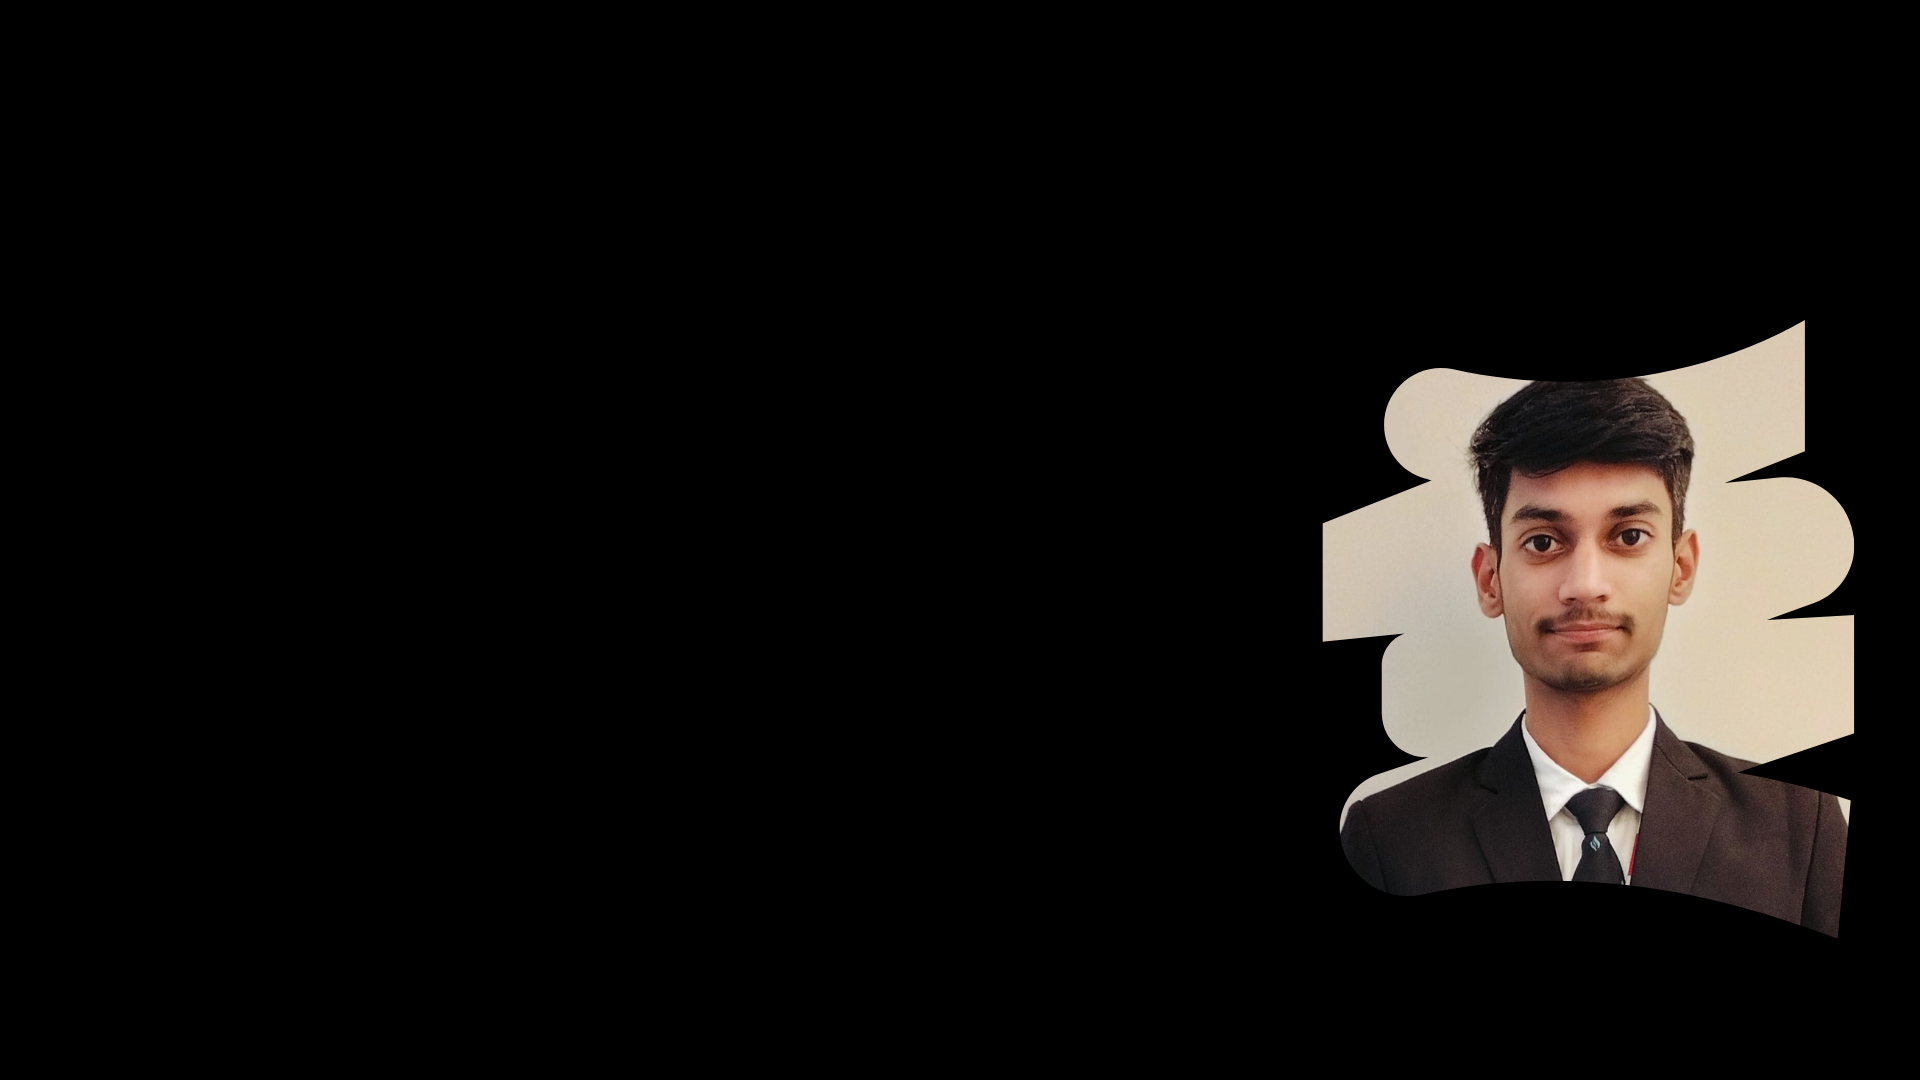
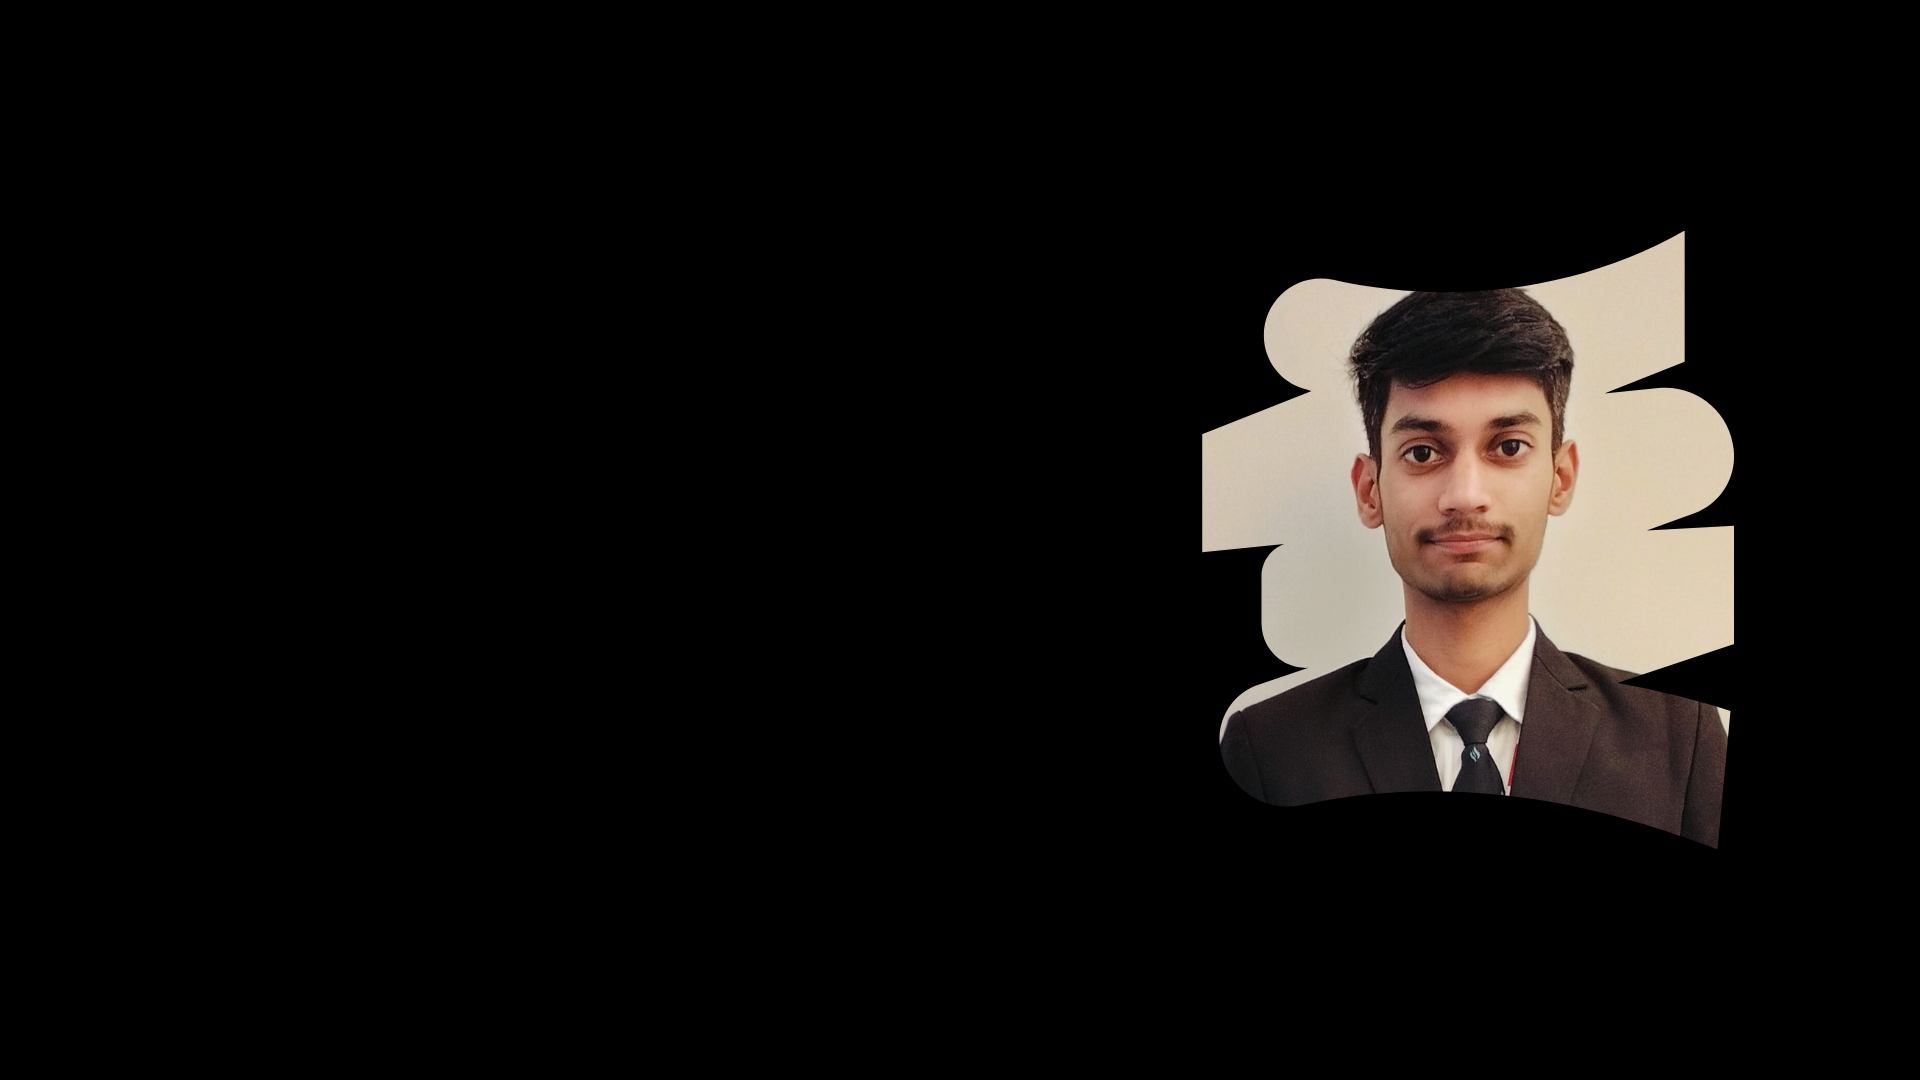
about section created

Changed region(s): [[0.625, 0.2139, 0.9688, 0.8861]]

diff --git a/index.html b/index.html
@@ -25,24 +25,30 @@
                 <li><a href="#Contact">Contact</a></li>
             </ul>
         </nav>
+        <div class="header-text">
+            <p><span class="web">Web</span> Developer</p>
+            <h1>Hi, I'm <span>Avaneesh</span></h1>
+        </div>
     </header>
 
-    <!-- Home section -->
-    <section class="home" id="home">
-        <div class="home-content">
-            <h3>Hi, Myself</h3>
-            <h1>Avaneesh Ravat</h1>
-            <h3>and I am Frontend Developer</h3>
-            <p>Lorem ipsum dolor sit amet, consectetur adipisicing elit. Distinctio autem dolorum ad, accusantium, minus facilis ipsa cum quod cupiditate totam nobis nihil laudantium. Delectus cupiditate pariatur eaque neque, nostrum deserunt ducimus dolor incidunt excepturi distinctio doloribus officia iusto repudiandae, id totam voluptatem exercitationem iste animi provident nisi ullam eos! Facilis nihil dicta animi accusamus.</p>
-            <div class="social-media">
-                <a href="#"><i class="fa-brands fa-linkedin"></i></a>
+    <!-- about section -->   
+
+    <div id="about">
+        <div class="container">
+            <div class="row">
+                <div class="about-col-1">
+                    <img src="images/Profile_image.png" alt="">
+                </div>
+                <div class="about-col-2">
+                    <h1>About me</h1>
+                </div>
             </div>
-            <a href="#" class="btn">Download CV</a>
         </div>
-        <div class="home-image">
-            <img src="images/Profile_image.png" alt="">
-        </div>
-    </section>
+
+    </div>
+
+    
+    
 
     <script src="app.js"></script>
 </body>

diff --git a/style.css b/style.css
@@ -62,3 +62,20 @@ body{
 .navbar ul li a:hover::after{
     width: 100%;
 }
+
+.header-text{
+    margin-top: 15%;
+    margin-left: 10rem;
+    font-size: 30px;
+}
+
+.header-text h1{
+    font-size: 60px;
+    margin-top: 20px;
+}
+
+.header-text h1 span{
+    color: #ff004f;
+}
+
+/* ------------ about section ------------*/
